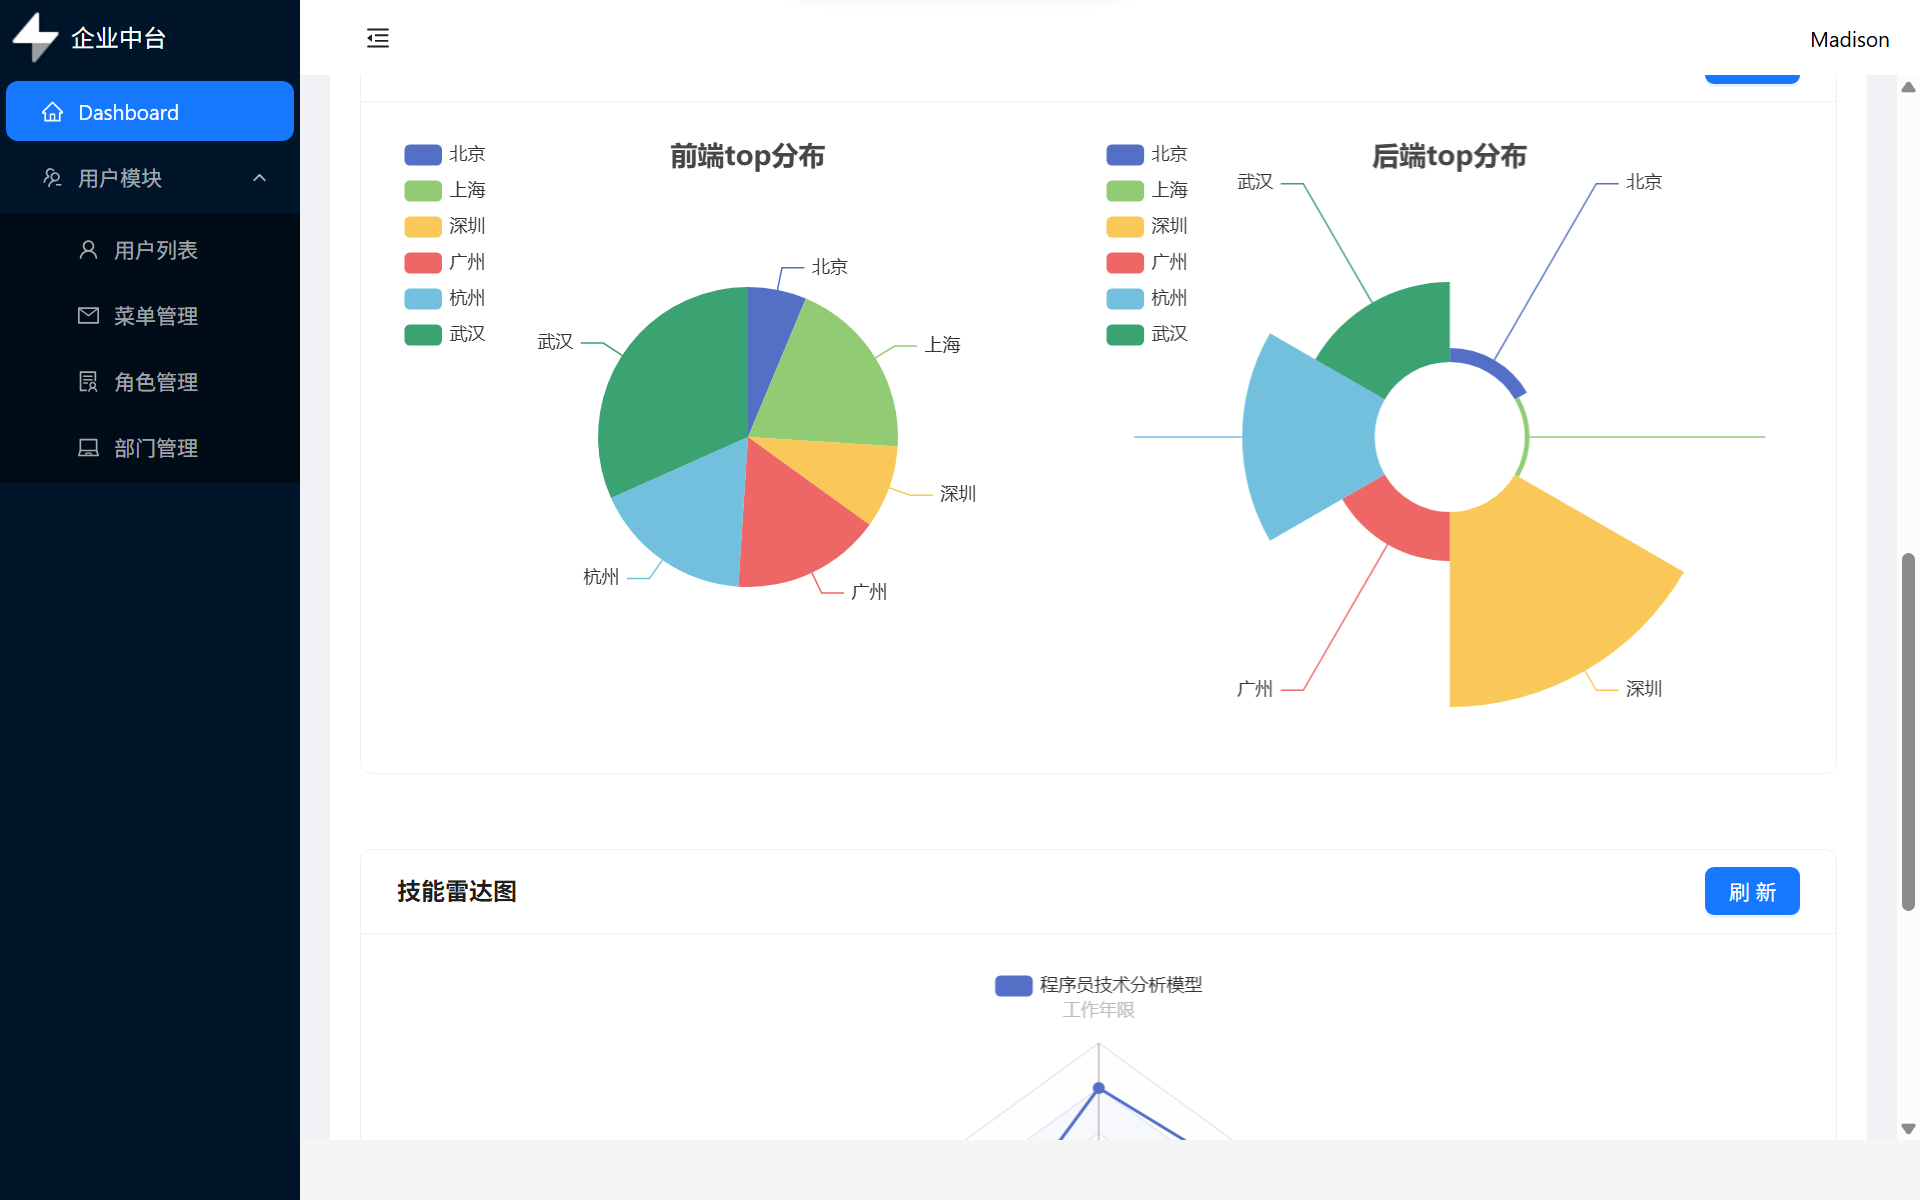
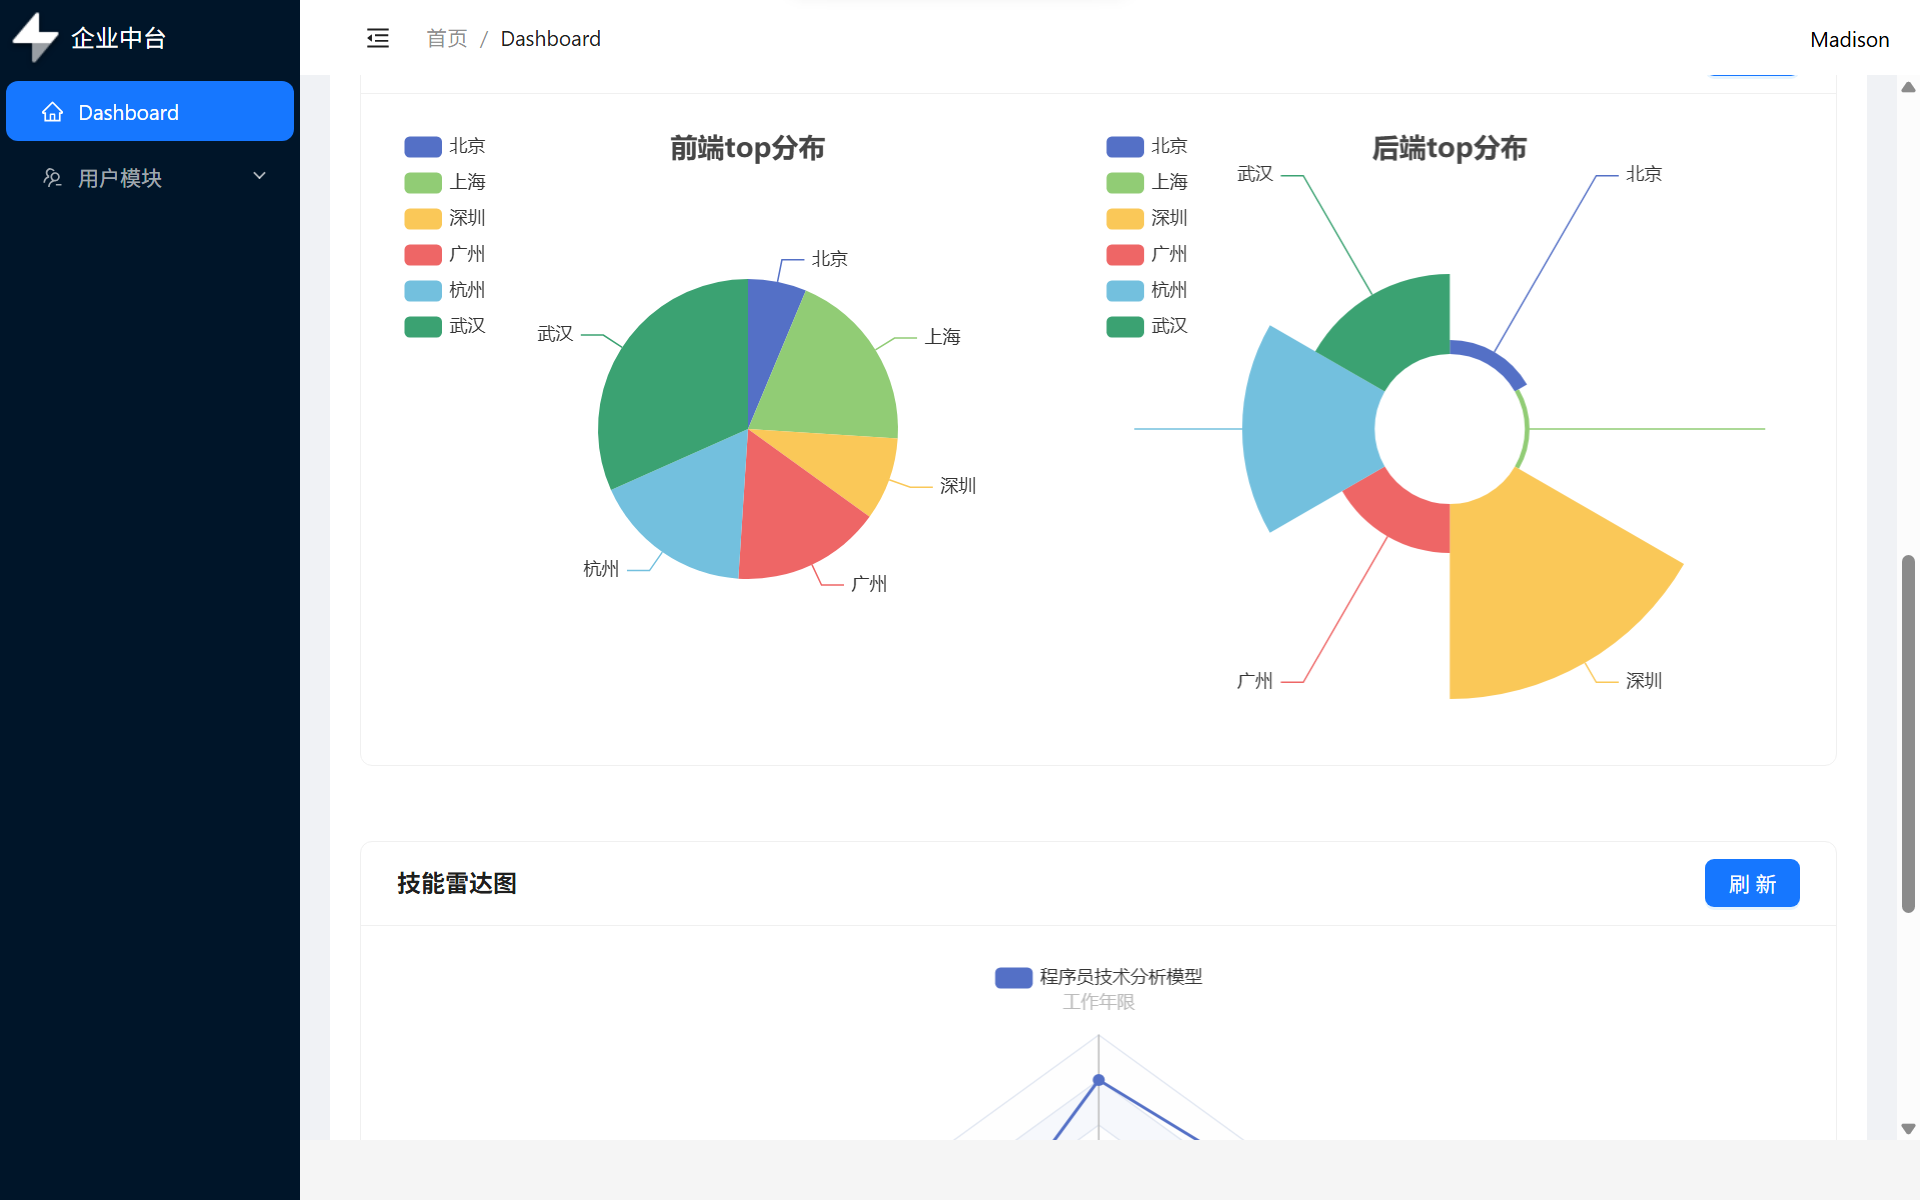
feat: 新增面包屑功能

diff --git a/src/layout/header/BreadCrump.tsx b/src/layout/header/BreadCrump.tsx
@@ -1,0 +1,29 @@
+import { Breadcrumb } from 'antd';
+import { useLocation } from 'react-router-dom';
+import { useEffect, useState } from 'react';
+
+// 与 menu/index.tsx 中的路由 key 保持一致
+const menuConfig: Record<string, string[]> = {
+    '/dashboard':   ['首页', 'Dashboard'],
+    '/userList':    ['首页', '用户模块', '用户列表'],
+    '/menuList':    ['首页', '用户模块', '菜单管理'],
+    '/roleList':    ['首页', '用户模块', '角色管理'],
+    '/deptList':    ['首页', '用户模块', '部门管理'],
+    '/welcome':     ['首页', '欢迎页'],
+};
+
+export default function BreadCrump() {
+    const { pathname } = useLocation();
+    const [items, setItems] = useState<{ title: string }[]>([]);
+
+    useEffect(() => {
+        const matched = menuConfig[pathname];
+        if (matched) {
+            setItems(matched.map((title) => ({ title })));
+        } else {
+            setItems([{ title: '首页' }]);
+        }
+    }, [pathname]);
+
+    return <Breadcrumb items={items} />;
+}

diff --git a/src/layout/header/index.tsx b/src/layout/header/index.tsx
@@ -4,6 +4,8 @@ import storage from '../../utils/storage';
 import type { MenuProps } from 'antd';
 import styles from './index.module.less';
 import { useStore } from '../../store';
+import BreadCrump from './BreadCrump';
+
 export default function NavHeader() {
     const { collapsed, updateCollapsed } = useStore();
     const items: MenuProps['items'] = [
@@ -33,12 +35,9 @@ export default function NavHeader() {
                     type="text"
                     icon={collapsed ? <MenuUnfoldOutlined /> : <MenuFoldOutlined />}
                     onClick={toggleCollapsed}
-                    style={{
-                        fontSize: '16px',
-                        width: 64,
-                        height: 64,
-                    }}
+                    style={{ fontSize: '16px', width: 64, height: 64 }}
                 />
+                <BreadCrump />
             </div>
             <div className={styles.right}>
                 <Dropdown menu={{ items, onClick }} trigger={['click']}>

diff --git a/src/types/api.ts b/src/types/api.ts
@@ -177,4 +177,3 @@ export interface IRadarData {
         name: string;
     }
 }
-

diff --git a/README.md b/README.md
@@ -102,9 +102,9 @@ src/
 
 ![用户列表](public/imgs/ui3.png)
 
-![部门管理](public/imgs/ui4.png)
+![角色管理](public/imgs/ui4.png)
 
-![角色管理](public/imgs/ui5.png)
+![部门管理](public/imgs/ui5.png)
 
 
 ## License
